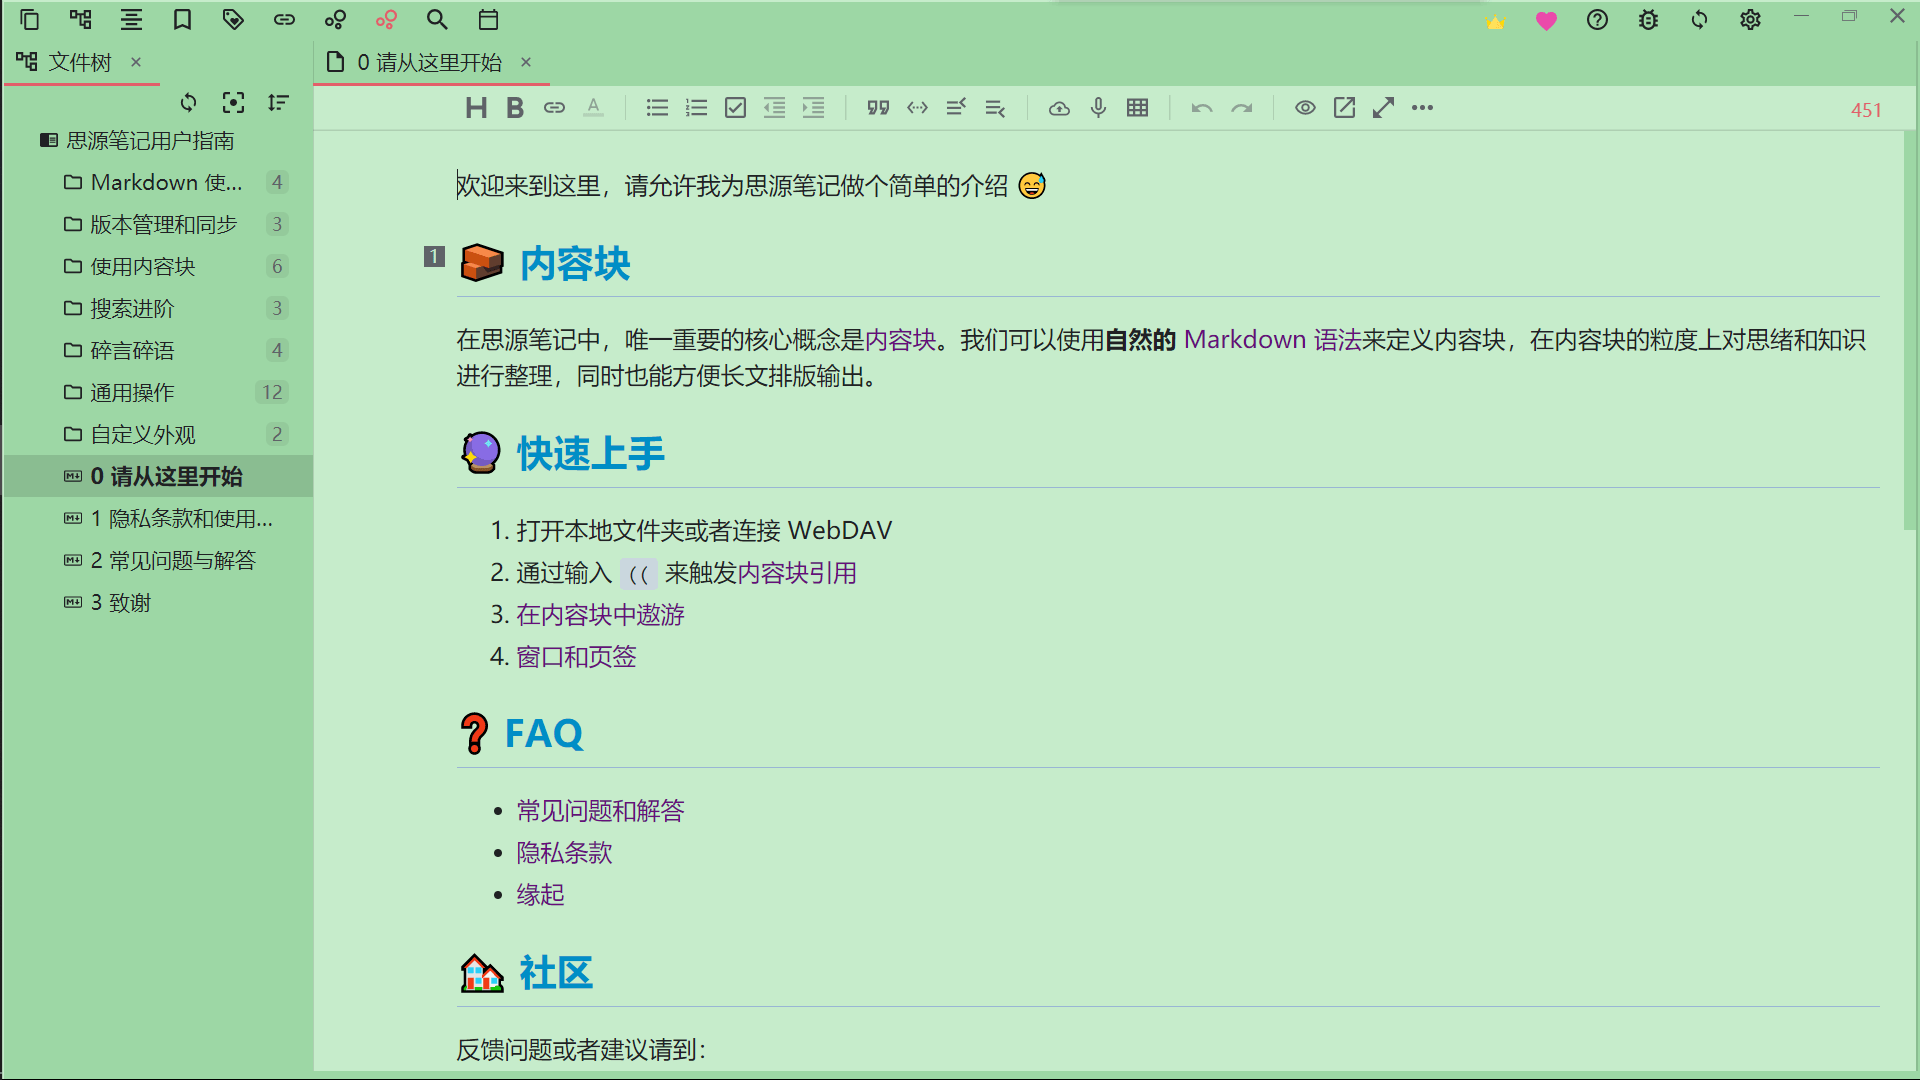
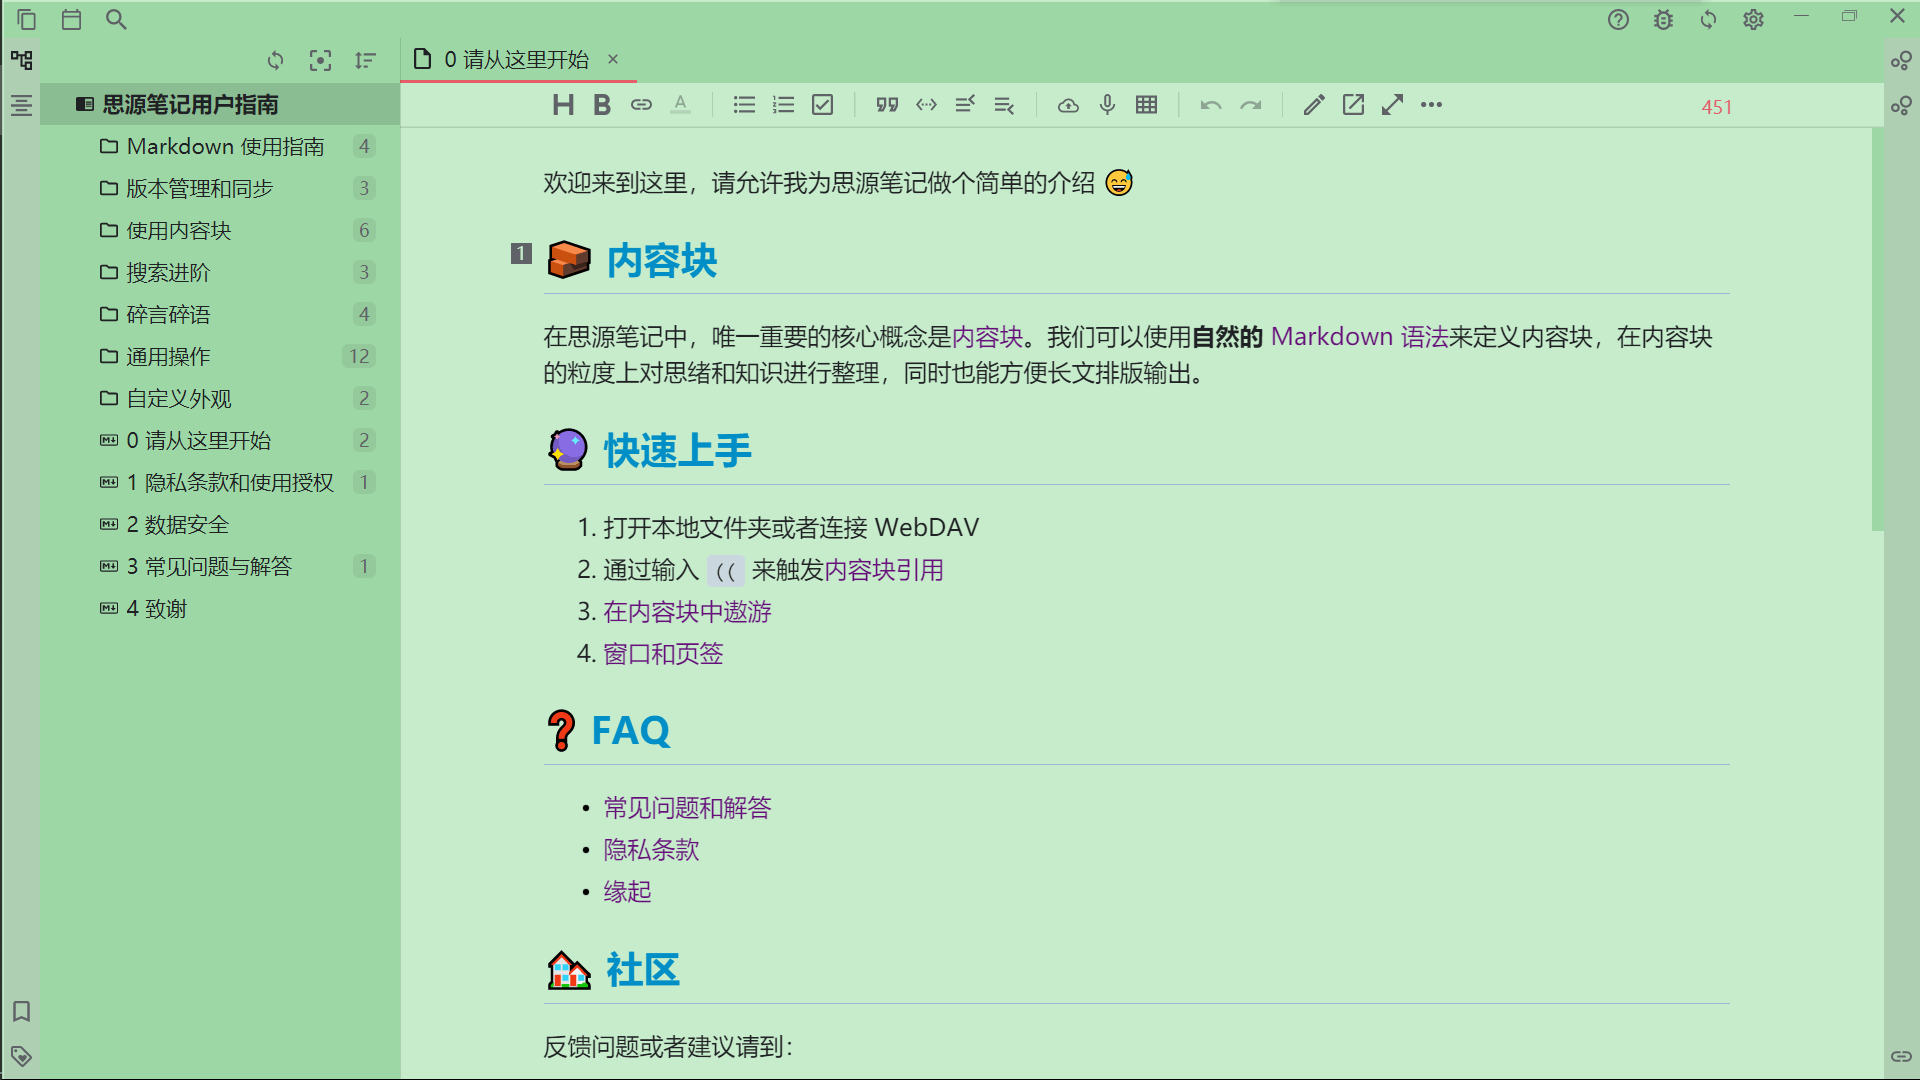
v0.0.6

diff --git a/theme.css b/theme.css
@@ -133,11 +133,11 @@
     color: var(--Watermelon-h-highLight-color);
     border-bottom-color: var(--Watermelon-h-underline-highLight-color);
 }
-.vditor-ir h2 {
+/* .vditor-ir h2 {
     border-bottom:none;
     background-color: #b6dfd0;
     padding: .2em;
-}
+} */
 
 /* codeBlock */
 .vditor-ir__node.vditor-ir__node--expand .vditor-ir__preview{
@@ -219,7 +219,11 @@
     border: 1.35px solid var(--Watermelon-block-border-color);
     border-radius: 0; 
 }
-
+.block__popover.block__popover--move.block__popover--open .vditor-ir pre, 
+.block__popover, .vditor-ir div[data-type="block-ref-embed"]>div[data-render] .vditor-ir pre,
+.vditor-ir div[data-type="block-query-embed"]>div[data-render] .vditor-ir pre{
+    font-size: 16px !important;
+}
 /* table */
 .vditor-reset table thead tr {
     background-color: var(--Watermelon-table-head-color) !important;
@@ -311,7 +315,9 @@ span[data-type="tag"] span:nth-child(2),
 .b3-list-item.b3-list-item--focus span:nth-child(2),
 /* 对顶部工具栏的美化 */
 .vditor-toolbar__item.b3-tooltips.b3-tooltips__s svg,
-.vditor-toolbar__item.b3-tooltips.b3-tooltips__n svg
+.vditor-toolbar__item.b3-tooltips.b3-tooltips__n svg,
+/* Dock栏的hover动画 */
+.dock__item.b3-tooltips.b3-tooltips__e svg, .dock__item.b3-tooltips.b3-tooltips__w svg
 {
     transition: all .3s linear;
 }
@@ -429,4 +435,46 @@ span[data-type="tag"]:hover span:nth-child(2) {
 /* 标题过长后尾部的白色阴影去除 */
 .layout-tab-bar .item__text::after {
     background: transparent !important;
+}
+
+/* .backlinkList.b3-list.b3-list--background .b3-list-item__text {
+    color: red;
+} */
+
+/* span[data-type="strong"] strong[style^="color"], 
+span[data-type="strong"] strong[style^="background-color"],
+span[data-type="strong"] strong[style^="text-shadow"] {
+    font-weight: normal !important;
+} */
+
+/* .b3-color__square:nth-child(1) {
+    background-color: pink !important;
+} */
+
+/* [fold="1"] {
+    border-left: 30px solid transparent;
+    border-right: 30px solid transparent;
+    border-bottom: 30px solid red;
+    animation: ne 3s infinite;
+    animation-timing-function: ease-in-out;
+}
+@keyframes ne {
+    0% {
+        border-bottom-color: red;
+    }
+    50% {
+        border-bottom-color: blue;
+    }
+    100% {
+        border-bottom-color: red;
+    }
+} */
+
+/* v0.6.7的样式调整 */
+.file-tree__header {
+    background-color: transparent;
+}
+/* Dock栏高亮 */
+.dock__item.b3-tooltips.b3-tooltips__e:hover svg, .dock__item.b3-tooltips.b3-tooltips__w:hover svg {
+    color: var(--Watermelon-highLight-color) !important;
 }

diff --git a/README.md b/README.md
@@ -1,7 +1,7 @@
 # 思源主题: Watermelon(light)
 
-## v0.0.5
-1. 修复了列表样式错乱的问题
+## v0.0.6
+1. Dock栏配色
 
 ## 预览图
-![](https://cdn.jsdelivr.net/gh/ihyw/blogIH-First@main/2021/01/12/preview(1).png)
+![](https://cdn.jsdelivr.net/gh/ihyw/blogIH-First@main/2021/01/25/Watermelon.png)
